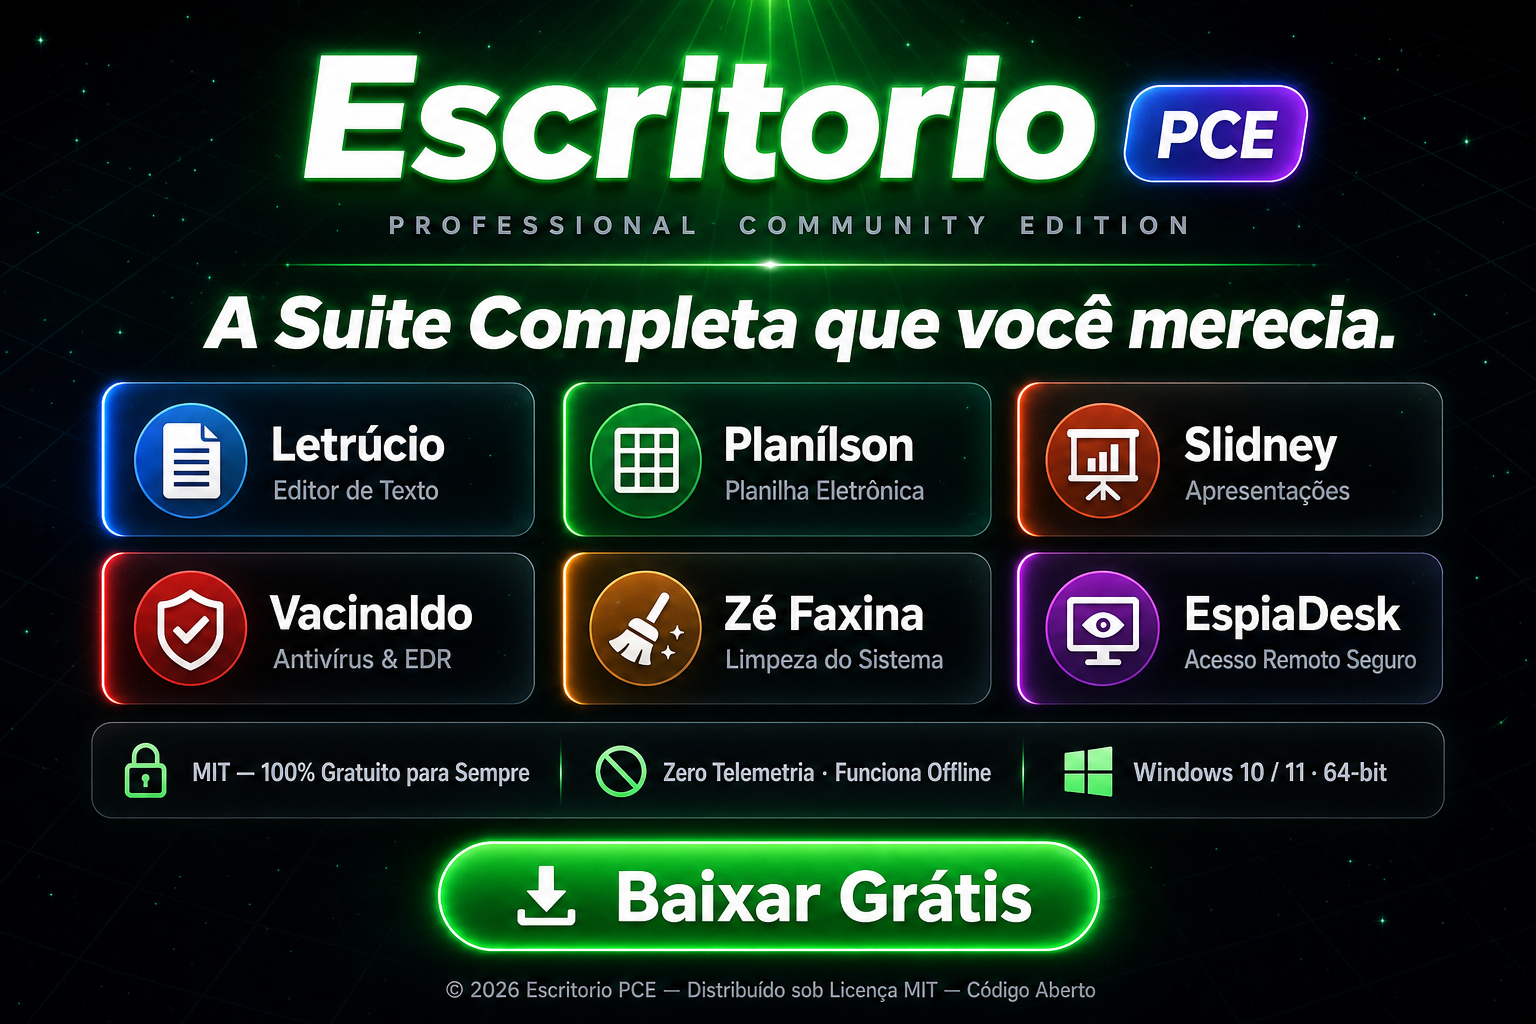
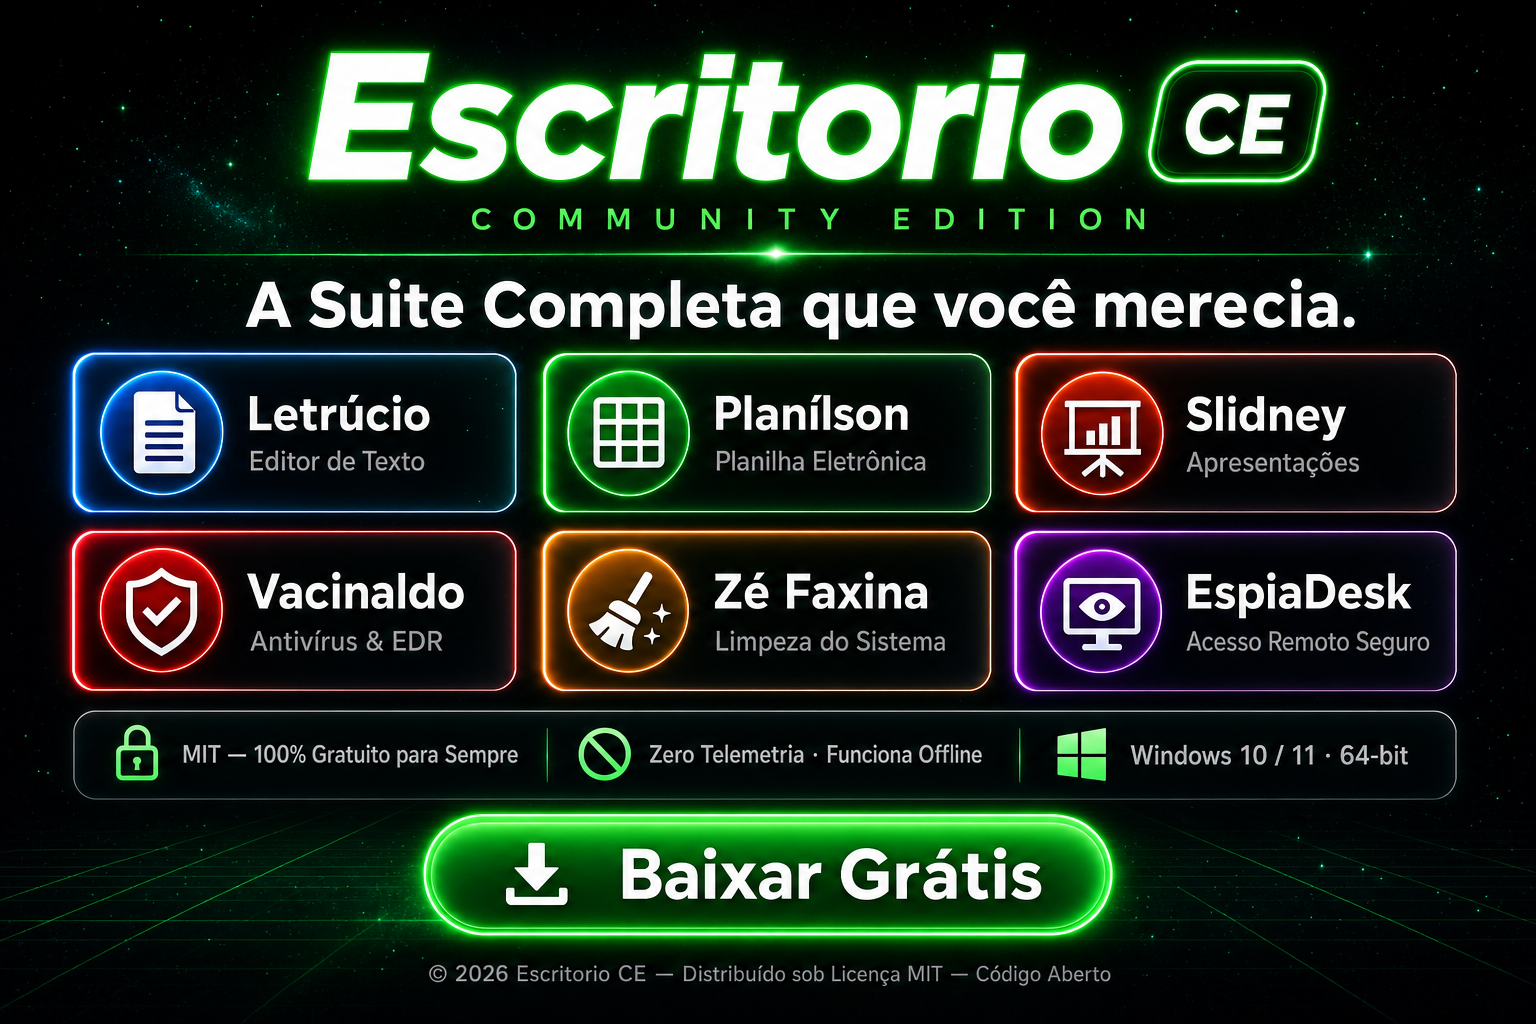
brand: renomear PCE para CE (Community Edition)

diff --git a/site/index.html b/site/index.html
@@ -1,9 +1,9 @@
-<!DOCTYPE html>
+<!DOCTYPE html>
 <html lang="pt-BR">
 <head>
   <meta charset="UTF-8" />
   <meta name="viewport" content="width=device-width, initial-scale=1.0" />
-  <title>Escritorio — Professional Community Edition</title>
+  <title>Escritorio — Community Edition</title>
   <link rel="preconnect" href="https://fonts.googleapis.com" />
   <link rel="preconnect" href="https://fonts.gstatic.com" crossorigin />
   <link href="https://fonts.googleapis.com/css2?family=Inter:wght@300;400;500;600;700;800;900&display=swap" rel="stylesheet" />
@@ -267,7 +267,7 @@
       <a href="#" class="logo">
         <div class="logo-mark">E</div>
         Escritorio
-        <span class="logo-pce">PCE</span>
+        <span class="logo-pce">CE</span>
       </a>
       <ul class="nav-links">
         <li><a href="#apps">Aplicativos</a></li>
@@ -293,7 +293,7 @@
       <div>
         <div class="hero-pce">
           <svg width="12" height="12" viewBox="0 0 24 24" fill="none" stroke="currentColor" stroke-width="2.5"><path d="M12 22s8-4 8-10V5l-8-3-8 3v7c0 6 8 10 8 10z"/></svg>
-          Professional Community Edition
+          Community Edition
         </div>
         <h1 class="hero-title">
           A Suite Completa<br>
@@ -330,7 +330,7 @@
             <div class="hw-dot" style="background:#ffbd2e"></div>
             <div class="hw-dot" style="background:#27c93f"></div>
             <span style="color:#8b949e;font-size:11px;margin-left:12px;font-weight:500">Pasta1 — Planílson</span>
-            <span style="margin-left:auto;color:#7c3aed;font-size:9px;font-weight:700;letter-spacing:.05em">Professional Community Edition</span>
+            <span style="margin-left:auto;color:#7c3aed;font-size:9px;font-weight:700;letter-spacing:.05em">Community Edition</span>
           </div>
           <div class="hw-ribbon">
             <span class="hw-rb-item">ARQUIVO</span>
@@ -378,7 +378,7 @@
   <div class="pce-inner">
     <div>
       <div class="pce-badge">Edição</div>
-      <div class="pce-title">Professional Community Edition</div>
+      <div class="pce-title">Community Edition</div>
     </div>
     <div class="pce-desc">Todos os 6 apps com recursos profissionais disponíveis gratuitamente para a comunidade. Sem versão paga, sem recursos bloqueados — o PCE é o único plano.</div>
     <a href="#download" class="btn btn-white" style="white-space:nowrap">Baixar grátis →</a>
@@ -593,8 +593,8 @@
       </div>
       <div class="bento-card reveal">
         <div class="bento-icon a">✨</div>
-        <div class="bento-title">Professional Community Edition</div>
-        <p class="bento-text">Todos os 6 apps exibem "Professional Community Edition" — sem versão paga, sem recursos bloqueados.</p>
+        <div class="bento-title">Community Edition</div>
+        <p class="bento-text">Todos os 6 apps exibem "Community Edition" — sem versão paga, sem recursos bloqueados.</p>
       </div>
 
       <!-- Row 6 — EspiaDesk destaque -->
@@ -658,7 +658,7 @@
             <div style="width:11px;height:11px;border-radius:50%;background:#ffbd2e"></div>
             <div style="width:11px;height:11px;border-radius:50%;background:#27c93f"></div>
             <span style="color:#a78bfa;font-size:11px;margin-left:12px;font-weight:700">EspiaDesk</span>
-            <span style="margin-left:auto;font-size:9px;color:rgba(168,85,247,.6);font-weight:600">PCE</span>
+            <span style="margin-left:auto;font-size:9px;color:rgba(168,85,247,.6);font-weight:600">CE</span>
           </div>
           <!-- Ribbon purple -->
           <div style="background:#7B2D8B;height:26px;display:flex;align-items:center;padding:0 12px;gap:18px">
@@ -764,7 +764,7 @@
           <div class="mf-dot" style="background:#ffbd2e"></div>
           <div class="mf-dot" style="background:#27c93f"></div>
           <span style="font-size:10px;color:#666;margin-left:8px;font-weight:500">Documento1 — Letrúcio</span>
-          <span style="margin-left:auto;font-size:9px;color:#7c3aed;font-weight:600">PCE</span>
+          <span style="margin-left:auto;font-size:9px;color:#7c3aed;font-weight:600">CE</span>
         </div>
         <div class="mf-ribbon" style="background:#2B579A">
           <span class="mf-ri">ARQUIVO</span>
@@ -973,7 +973,7 @@
           <div class="mf-dot" style="background:#ffbd2e"></div>
           <div class="mf-dot" style="background:#27c93f"></div>
           <span style="font-size:10px;color:#a78bfa;margin-left:8px;font-weight:700">EspiaDesk</span>
-          <span style="margin-left:auto;font-size:9px;color:#6d28d9;font-weight:600">PCE</span>
+          <span style="margin-left:auto;font-size:9px;color:#6d28d9;font-weight:600">CE</span>
         </div>
         <div class="mf-ribbon" style="background:#7B2D8B">
           <span class="mf-ri">ARQUIVO</span>
@@ -1033,7 +1033,7 @@
           <span style="font-size:16px">🧹</span>
           <span style="font-size:11px;color:#fff;font-weight:700;margin-left:4px">Zé Faxina</span>
           <span style="font-size:10px;color:rgba(255,255,255,.7);margin-left:8px">— Limpeza do Sistema</span>
-          <span style="margin-left:auto;font-size:9px;color:rgba(255,255,255,.6);font-weight:600">PCE</span>
+          <span style="margin-left:auto;font-size:9px;color:rgba(255,255,255,.6);font-weight:600">CE</span>
         </div>
         <div style="display:grid;grid-template-columns:140px 1fr;height:180px">
           <div style="background:#fafafa;border-right:1px solid #eee;padding:6px 0">
@@ -1163,7 +1163,7 @@
   <div class="container">
     <div class="download-box reveal">
       <div class="download-title">Pronto para começar?</div>
-      <div class="download-pce">Escritorio — Professional Community Edition v1.0.0 · EDR Comportamental + Acesso Remoto</div>
+      <div class="download-pce">Escritorio — Community Edition v1.0.0 · EDR Comportamental + Acesso Remoto</div>
       <p class="download-sub">6 aplicativos em um instalador. EDR comportamental, proteção inteligente, limpeza, produtividade e acesso remoto seguro. Funciona offline, sem cadastro, sem assinatura, para sempre gratuito.</p>
       <div class="download-actions">
         <a href="dist/installer/escritorio-setup.exe" class="btn btn-white btn-xl">
@@ -1189,7 +1189,7 @@
           <div class="logo-mark">E</div>
           Escritorio
         </a><br>
-        <span class="footer-pce">Professional Community Edition</span>
+        <span class="footer-pce">Community Edition</span>
         <p>Suite completa e gratuita para Windows com EDR comportamental e acesso remoto. Letrúcio, Planílson, Slidney, Vacinaldo, Zé Faxina e EspiaDesk — feito com ❤️ pela comunidade.</p>
       </div>
       <div class="footer-col">
@@ -1225,7 +1225,7 @@
       <p>© 2026 Escritorio PCE — Distribuído sob a <strong style="color:#4ade80">Licença MIT</strong></p>
       <span class="mit-badge">
         <svg width="12" height="12" viewBox="0 0 24 24" fill="none" stroke="currentColor" stroke-width="2.5"><path d="M12 22s8-4 8-10V5l-8-3-8 3v7c0 6 8 10 8 10z"/></svg>
-        Professional Community Edition · MIT License
+        Community Edition · MIT License
       </span>
     </div>
   </div>

diff --git a/README.md b/README.md
@@ -1,4 +1,4 @@
-[![Escritorio PCE — Clique para baixar](flyer.jpg)](https://github.com/edivanccastro/escritorio/releases/latest)
+[![Escritorio CE — Clique para baixar](flyer.jpg)](https://github.com/edivanccastro/escritorio/releases/latest)
 
 <div align="center">
 
@@ -6,7 +6,7 @@
 
 </div>
 
-# Escritorio PCE
+# Escritorio CE — Community Edition
 
 > **Produtividade Completa para o Escritório** — suíte open source em C# (.NET 8 + WPF) com 6 aplicativos independentes, instalador profissional e identidade visual própria.
 